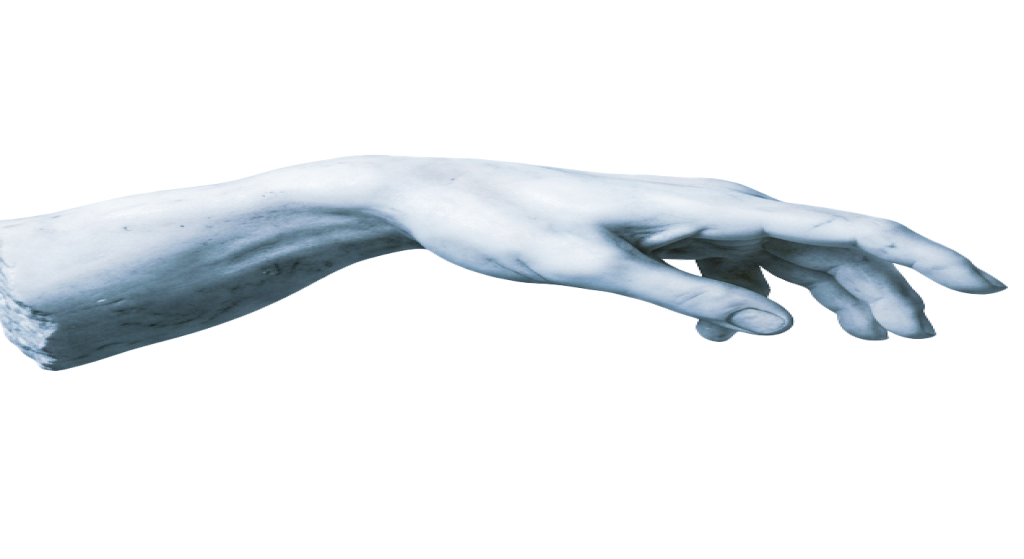
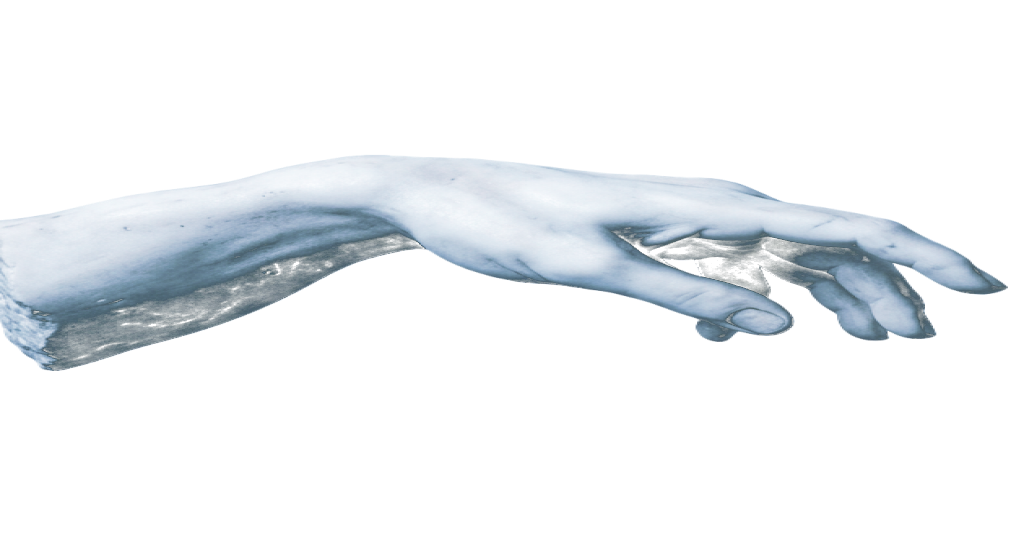
Fix CTA hands: full gesture contain crop, alpha assets, button glow.

diff --git a/templates/MediaIdeya/css/components/footer.css b/templates/MediaIdeya/css/components/footer.css
@@ -10,7 +10,7 @@
 /* —— onfooter / форма 1:33 —— */
 .mi-footer__cta {
   position: relative;
-  overflow: visible;
+  overflow: hidden;
   display: flex;
   flex-direction: column;
   align-items: center;
@@ -28,8 +28,8 @@
   pointer-events: none;
   z-index: 0;
   max-width: none;
-  height: auto;
   line-height: 0;
+  overflow: hidden;
 }
 
 .mi-footer__hand img {
@@ -37,16 +37,20 @@
   width: 100%;
   height: 100%;
   max-width: none;
-  object-fit: cover;
-  object-position: bottom;
+  object-fit: contain;
+  object-position: center center;
   mix-blend-mode: screen;
 }
 
-/* руки 5 — left -143, 630×768 (artboard-centered) */
+/* руки 5 — left -143, 630×768; full hand visible in frame */
 .mi-footer__hand--l {
   left: calc(50% - 960px - 143px);
   width: 630px;
   height: 768px;
+}
+
+.mi-footer__hand--l img {
+  object-position: center center;
 }
 
 /* руки 3 — left 1431, 710×768 */
@@ -54,6 +58,10 @@
   left: calc(50% - 960px + 1431px);
   width: 710px;
   height: 768px;
+}
+
+.mi-footer__hand--r img {
+  object-position: center center;
 }
 
 .mi-footer__cta-inner {
@@ -64,6 +72,21 @@
   align-items: center;
   gap: 40px;
   width: 100%;
+}
+
+/* soft glow behind CTA button (Figma form ambience) */
+.mi-footer__cta-inner::before {
+  content: "";
+  position: absolute;
+  left: 50%;
+  bottom: -40px;
+  transform: translateX(-50%);
+  width: 720px;
+  height: 320px;
+  border-radius: 50%;
+  background: radial-gradient(ellipse at center, rgba(237, 245, 253, 0.28) 0%, rgba(237, 245, 253, 0) 70%);
+  pointer-events: none;
+  z-index: -1;
 }
 
 .mi-footer__cta-copy {
